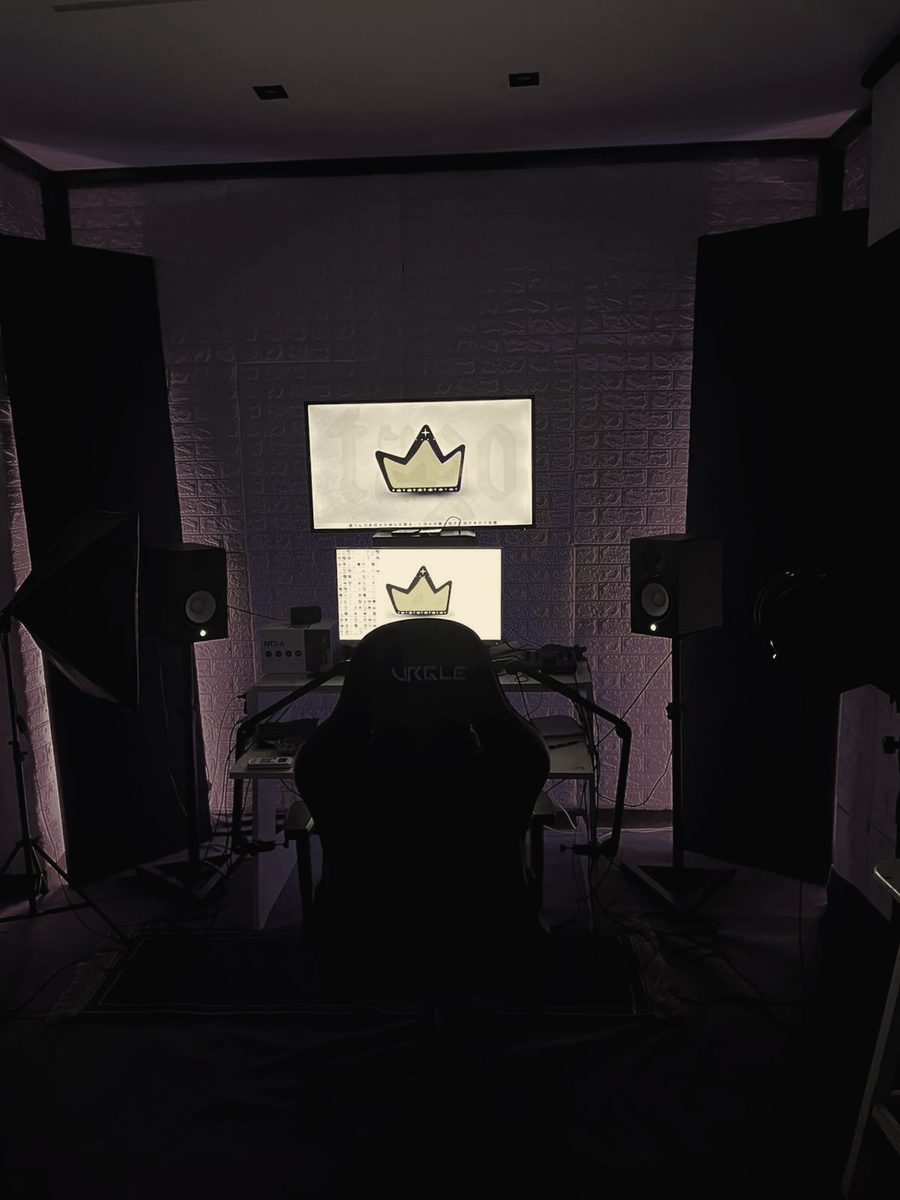
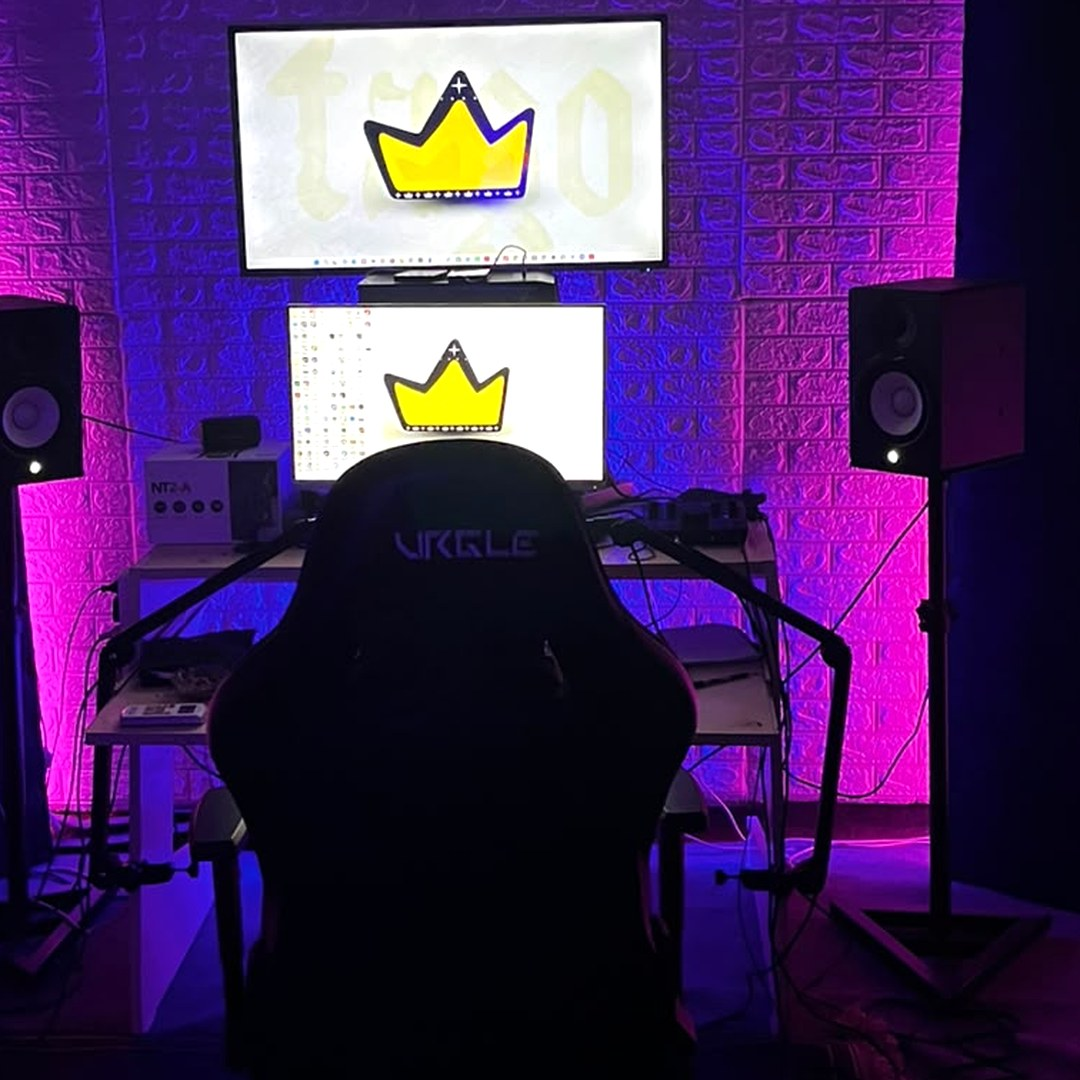
Square crops for About/Studio photos, full-portrait hero bg, Works shows 2 big cards

diff --git a/index.html b/index.html
@@ -24,7 +24,7 @@
 .ts-head nav { display: flex; flex-wrap: wrap; gap: 4px; }
 .ts-head nav button { background: none; border: 0; color: #cfcfcf; font: inherit; padding: 10px; min-height: 44px; cursor: pointer; }
 .ts-head nav button:hover { color: #FED219; }
-.ts-hero { text-align: center; padding: 56px 20px 48px; background: linear-gradient(180deg, rgba(19,19,19,.45) 0%, rgba(19,19,19,.78) 45%, rgba(19,19,19,.95) 100%), url("hero-bg.jpg") 50% 22%/cover no-repeat; border-bottom: 3px solid #FED219; }
+.ts-hero { text-align: center; padding: 56px 20px 48px; background: linear-gradient(180deg, rgba(19,19,19,.45) 0%, rgba(19,19,19,.78) 45%, rgba(19,19,19,.95) 100%), url("hero-bg.jpg?v=2") 50% 22%/cover no-repeat; border-bottom: 3px solid #FED219; }
 .ts-hero-in { max-width: 760px; margin: 0 auto; }
 .ts-avatar { width: 128px; height: 128px; border-radius: 50%; margin: 0 auto 16px; background: #1c1c1c; border: 3px solid #FED219; display: grid; place-items: center; font-size: 56px; font-weight: 800; color: #FED219; }
 .ts-hero h1 { font-size: clamp(48px, 12vw, 96px); margin: 0; line-height: 1.1; }
@@ -97,11 +97,11 @@ a.ts-btn { text-decoration: none; width: max-content; max-width: 100%; text-alig
 @media (max-width:699px){.ts-burger{display:flex}.ts-head{padding:12px 16px}.ts-head nav{display:none;position:absolute;top:100%;left:0;right:0;z-index:20;flex-direction:column;flex-wrap:nowrap;gap:0;background:#1a1a1a;border-bottom:1px solid #2a2a2a;padding:8px 16px}.ts-head.open nav{display:flex}.ts-head nav .ts-navl{padding:14px 8px;border-bottom:1px solid #262626;font-size:17px}.ts-head nav .ts-navl:last-child{border-bottom:0}}.ts-video .ts-credit{padding:0 16px 16px;margin:-8px 0 0;font-size:14px;color:#FED219}.ts-podembed{grid-column:1/-1}.ts-podlabel{margin:0 0 12px;font-size:20px;text-align:center;color:#fff}.ts-frame{aspect-ratio:16/9;border-radius:16px;overflow:hidden;background:#000}.ts-frame iframe{width:100%;height:100%;border:0;display:block}.ts-soon{color:#9a9a9a;margin:0}.ts-latest{max-width:920px}.ts-latest-t{margin:14px 0 0;font-size:20px;text-align:center}.ts-rel{display:flex;flex-direction:column;gap:10px;margin-top:20px}.ts-rel-i{display:flex;align-items:center;gap:12px;background:#1c1c1c;border-radius:12px;padding:8px 12px 8px 8px;text-decoration:none;color:inherit}.ts-rel-i:hover{filter:brightness(1.15)}.ts-rel-i img{width:120px;aspect-ratio:16/9;object-fit:cover;border-radius:8px;flex:none}.ts-rel-t{display:flex;flex-direction:column;gap:2px;min-width:0}.ts-rel-t b{font-size:15px;color:#fff}.ts-rel-t i{font-style:normal;font-size:13px;color:#FED219}.ts-rel-d{font-size:12px;color:#9a9a9a}</style><script src="imgs.js"></script><script src="logo.js"></script><script src="font1.js"></script><script src="font2.js"></script><script>var st=document.createElement("style");st.textContent="@font-face{font-family:\"TsCairo\";src:url(data:font/ttf;base64,"+F1+F2+") format(\"truetype\");font-weight:200 1000}";document.head.appendChild(st);</script></head><body><div id="en"><div class="ts" dir="ltr" lang="en">
 <header class="ts-head"><span class="ts-logo"><img data-d="0" src="data:," alt="Tago crown logo" class="ts-crown"/>TAGO</span><nav><a href="#about" class="ts-navl">About</a><a href="#services" class="ts-navl">Services</a><a href="#latest" class="ts-navl">My Latest Release</a><a href="#podcast" class="ts-navl">Podcast</a><a href="#work" class="ts-navl">Work</a><a href="#contact" class="ts-navl">Contact</a></nav><div class="ts-hr"><button type="button" class="ts-lang" onclick="setLang('ar')">العربية</button><button type="button" class="ts-burger" aria-label="Menu" aria-expanded="false"><span></span><span></span><span></span></button></div></header>
 <section class="ts-hero"><div class="ts-hero-in"><div class="ts-avatar"><img data-d="0" src="data:," alt="Tago crown logo"/></div><h1>TAGO</h1><p class="ts-tag">Music Producer · Sound Engineer · Content Creator</p><div class="ts-social"><a href="https://www.instagram.com/lordtago" target="_blank" rel="noopener noreferrer">Instagram</a><a href="https://youtube.com/@lordtago" target="_blank" rel="noopener noreferrer">YouTube</a><a href="https://www.tiktok.com/@lordtago" target="_blank" rel="noopener noreferrer">TikTok</a><a href="https://www.facebook.com/share/1EE7hcCsJZ/?mibextid=wwXIfr" target="_blank" rel="noopener noreferrer">Facebook</a><a href="mailto:lordtagoo@gmail.com">Email</a></div><div class="ts-bubble">Got an idea? Let's turn it into a record at the studio.</div><a href="https://wa.me/201001452808" target="_blank" rel="noopener noreferrer" class="ts-btn">Message me on WhatsApp</a></div></section>
-<section id="about" class="ts-sec"><h2>About me and the studio</h2><div class="ts-about"><img class="ts-portrait" src="studio.jpg?v=2" alt="Tago at the desk in Toufan Studio" loading="lazy" width="1200" height="696"/><p>I am Tago from Ismailia, Egypt. Music producer, arranger, sound engineer and songwriter, and the owner of Toufan Studio. My rap and mahraganat work has reached millions of views.</p></div><div class="ts-stats"><div><b dir="ltr">345K+</b><span>followers combined</span></div><div><b dir="ltr" class="ts-ytviews">5.3M+</b><span>YouTube views</span></div><div><b dir="ltr">46.3K</b><span>YouTube subscribers</span></div><div><b dir="ltr">174.6K</b><span>TikTok followers</span></div><div><b dir="ltr">108K</b><span>Facebook followers</span></div><div><b dir="ltr">16.8K</b><span>Instagram followers</span></div><div><b dir="ltr">12+</b><span>years</span></div></div></section><section id="services" class="ts-sec"><h2>Services</h2><div class="ts-grid" id="tsSvcEn"></div><p class="ts-svcnote">Delivery in 1 to 3 days</p></section><section id="latest" class="ts-sec"><h2>Latest Releases</h2><div class="ts-latest" id="tsLatestEn"><div class="ts-frame"><iframe src="https://www.youtube.com/embed/CoeoFm5acP8" title="TAGO X SCOR - Mate3mlsh Enk 7abiby | تاجو وسكور - متعملش انك حبيبي" loading="lazy" allow="accelerometer; encrypted-media; picture-in-picture; web-share" allowfullscreen referrerpolicy="strict-origin-when-cross-origin"></iframe></div><h3 class="ts-latest-t" dir="auto">TAGO X SCOR - Mate3mlsh Enk 7abiby | تاجو وسكور - متعملش انك حبيبي</h3><a class="ts-btn" style="margin:12px auto 0" href="https://youtu.be/CoeoFm5acP8" target="_blank" rel="noopener noreferrer">Watch on YouTube</a></div><div class="ts-rel" id="tsRelEn"></div></section><section id="podcast" class="ts-sec ts-pod"><div class="ts-podlogo"><img data-pl="1" src="data:," alt="FLSTUDIO with Tago podcast logo" loading="lazy"/></div><div><h2>FLSTUDIO with Tago</h2><p>A podcast hosting mahraganat and shaabi stars: a real conversation, reactions to their videos, a live singing segment, and a challenge we make them try.</p><a class="ts-btn" style="margin:14px 0 0" href="https://www.youtube.com/playlist?list=PLAxLyk6ogs0xgaepPgfRe_CwHPWfxUmDX" target="_blank" rel="noopener noreferrer">Watch Season 1 on YouTube</a></div><div class="ts-podembed"><h3 class="ts-podlabel" dir="rtl" lang="ar">بودكاست فالاستوديو مع تاجو الموسم الاول</h3><div class="ts-frame"><iframe src="https://www.youtube.com/embed/videoseries?list=PLAxLyk6ogs0xgaepPgfRe_CwHPWfxUmDX" title="FLSTUDIO with Tago, Season 1" loading="lazy" allow="accelerometer; encrypted-media; picture-in-picture; web-share" allowfullscreen referrerpolicy="strict-origin-when-cross-origin"></iframe></div></div></section><section id="work" class="ts-sec"><h2>My work</h2><div class="ts-grid" id="tsGridEn"></div><div class="ts-rel" id="tsWorkRelEn"></div></section><section id="studio" class="ts-sec"><h2>The Studio</h2><img class="ts-studioimg" src="studio-1.jpg" alt="Toufan Studio control room with the Tago crown on the screens" loading="lazy" width="900" height="1200"/></section><section id="artists" class="ts-sec"><h2>Artists</h2><div id="tsArtistsEn"></div></section><section id="store" class="ts-sec" style="display:none"><h2>Store</h2><div class="ts-grid"><div class="ts-card"><div class="ts-cover"></div><h3>FL Studio mixing template</h3><p class="ts-price">Price soon</p><button type="button" class="ts-btn ts-ghost" disabled>Coming soon</button></div><div class="ts-card"><div class="ts-cover"></div><h3>Sound presets</h3><p class="ts-price">Price soon</p><button type="button" class="ts-btn ts-ghost" disabled>Coming soon</button></div><div class="ts-card"><div class="ts-cover"></div><h3>Mastering guide</h3><p class="ts-price">Price soon</p><button type="button" class="ts-btn ts-ghost" disabled>Coming soon</button></div></div><p class="ts-note">Placeholder products and prices. Online payment is not connected yet.</p></section><section id="contact" class="ts-sec ts-contact"><h2>Get in touch</h2><p>Have a song, an idea or a podcast? Talk to me.</p><a href="https://wa.me/201001452808" target="_blank" rel="noopener noreferrer" class="ts-btn">Chat on WhatsApp</a> <a href="mailto:lordtagoo@gmail.com" class="ts-btn" style="align-self:center;margin:12px auto 0">Email me</a><p class="ts-note">Ismailia, Egypt</p></section>
+<section id="about" class="ts-sec"><h2>About me and the studio</h2><div class="ts-about"><img class="ts-portrait" src="studio.jpg?v=3" alt="Tago at the desk in Toufan Studio" loading="lazy" width="1000" height="1000"/><p>I am Tago from Ismailia, Egypt. Music producer, arranger, sound engineer and songwriter, and the owner of Toufan Studio. My rap and mahraganat work has reached millions of views.</p></div><div class="ts-stats"><div><b dir="ltr">345K+</b><span>followers combined</span></div><div><b dir="ltr" class="ts-ytviews">5.3M+</b><span>YouTube views</span></div><div><b dir="ltr">46.3K</b><span>YouTube subscribers</span></div><div><b dir="ltr">174.6K</b><span>TikTok followers</span></div><div><b dir="ltr">108K</b><span>Facebook followers</span></div><div><b dir="ltr">16.8K</b><span>Instagram followers</span></div><div><b dir="ltr">12+</b><span>years</span></div></div></section><section id="services" class="ts-sec"><h2>Services</h2><div class="ts-grid" id="tsSvcEn"></div><p class="ts-svcnote">Delivery in 1 to 3 days</p></section><section id="latest" class="ts-sec"><h2>Latest Releases</h2><div class="ts-latest" id="tsLatestEn"><div class="ts-frame"><iframe src="https://www.youtube.com/embed/CoeoFm5acP8" title="TAGO X SCOR - Mate3mlsh Enk 7abiby | تاجو وسكور - متعملش انك حبيبي" loading="lazy" allow="accelerometer; encrypted-media; picture-in-picture; web-share" allowfullscreen referrerpolicy="strict-origin-when-cross-origin"></iframe></div><h3 class="ts-latest-t" dir="auto">TAGO X SCOR - Mate3mlsh Enk 7abiby | تاجو وسكور - متعملش انك حبيبي</h3><a class="ts-btn" style="margin:12px auto 0" href="https://youtu.be/CoeoFm5acP8" target="_blank" rel="noopener noreferrer">Watch on YouTube</a></div><div class="ts-rel" id="tsRelEn"></div></section><section id="podcast" class="ts-sec ts-pod"><div class="ts-podlogo"><img data-pl="1" src="data:," alt="FLSTUDIO with Tago podcast logo" loading="lazy"/></div><div><h2>FLSTUDIO with Tago</h2><p>A podcast hosting mahraganat and shaabi stars: a real conversation, reactions to their videos, a live singing segment, and a challenge we make them try.</p><a class="ts-btn" style="margin:14px 0 0" href="https://www.youtube.com/playlist?list=PLAxLyk6ogs0xgaepPgfRe_CwHPWfxUmDX" target="_blank" rel="noopener noreferrer">Watch Season 1 on YouTube</a></div><div class="ts-podembed"><h3 class="ts-podlabel" dir="rtl" lang="ar">بودكاست فالاستوديو مع تاجو الموسم الاول</h3><div class="ts-frame"><iframe src="https://www.youtube.com/embed/videoseries?list=PLAxLyk6ogs0xgaepPgfRe_CwHPWfxUmDX" title="FLSTUDIO with Tago, Season 1" loading="lazy" allow="accelerometer; encrypted-media; picture-in-picture; web-share" allowfullscreen referrerpolicy="strict-origin-when-cross-origin"></iframe></div></div></section><section id="work" class="ts-sec"><h2>My work</h2><div class="ts-grid" id="tsGridEn"></div><div class="ts-rel" id="tsWorkRelEn"></div></section><section id="studio" class="ts-sec"><h2>The Studio</h2><img class="ts-studioimg" src="studio-1.jpg?v=2" alt="Toufan Studio control room with the Tago crown on the screens" loading="lazy" width="1080" height="1080"/></section><section id="artists" class="ts-sec"><h2>Artists</h2><div id="tsArtistsEn"></div></section><section id="store" class="ts-sec" style="display:none"><h2>Store</h2><div class="ts-grid"><div class="ts-card"><div class="ts-cover"></div><h3>FL Studio mixing template</h3><p class="ts-price">Price soon</p><button type="button" class="ts-btn ts-ghost" disabled>Coming soon</button></div><div class="ts-card"><div class="ts-cover"></div><h3>Sound presets</h3><p class="ts-price">Price soon</p><button type="button" class="ts-btn ts-ghost" disabled>Coming soon</button></div><div class="ts-card"><div class="ts-cover"></div><h3>Mastering guide</h3><p class="ts-price">Price soon</p><button type="button" class="ts-btn ts-ghost" disabled>Coming soon</button></div></div><p class="ts-note">Placeholder products and prices. Online payment is not connected yet.</p></section><section id="contact" class="ts-sec ts-contact"><h2>Get in touch</h2><p>Have a song, an idea or a podcast? Talk to me.</p><a href="https://wa.me/201001452808" target="_blank" rel="noopener noreferrer" class="ts-btn">Chat on WhatsApp</a> <a href="mailto:lordtagoo@gmail.com" class="ts-btn" style="align-self:center;margin:12px auto 0">Email me</a><p class="ts-note">Ismailia, Egypt</p></section>
 <footer class="ts-foot">© Tago · Toufan Studio</footer></div></div><div id="ar" style="display:none"><div class="ts" dir="rtl" lang="ar">
 <header class="ts-head"><span class="ts-logo"><img data-d="0" src="data:," alt="شعار تاجو" class="ts-crown"/>تاجو</span><nav><a href="#about" class="ts-navl">عني</a><a href="#services" class="ts-navl">الخدمات</a><a href="#latest" class="ts-navl">آخر إصداراتي</a><a href="#podcast" class="ts-navl">فالاستوديو</a><a href="#work" class="ts-navl">شغلي</a><a href="#contact" class="ts-navl">تواصل</a></nav><div class="ts-hr"><button type="button" class="ts-lang" onclick="setLang('en')">English</button><button type="button" class="ts-burger" aria-label="Menu" aria-expanded="false"><span></span><span></span><span></span></button></div></header>
 <section class="ts-hero"><div class="ts-hero-in"><div class="ts-avatar"><img data-d="0" src="data:," alt="شعار تاجو"/></div><div class="ts-h1ar">تاجو</div><p class="ts-tag">منتج موسيقي · مهندس صوت · صانع محتوى</p><div class="ts-social"><a href="https://www.instagram.com/lordtago" target="_blank" rel="noopener noreferrer">Instagram</a><a href="https://youtube.com/@lordtago" target="_blank" rel="noopener noreferrer">YouTube</a><a href="https://www.tiktok.com/@lordtago" target="_blank" rel="noopener noreferrer">TikTok</a><a href="https://www.facebook.com/share/1EE7hcCsJZ/?mibextid=wwXIfr" target="_blank" rel="noopener noreferrer">Facebook</a><a href="mailto:lordtagoo@gmail.com">البريد</a></div><div class="ts-bubble">أي فكرة في دماغك، نحولها لشغل يتسمع في الاستوديو.</div><a href="https://wa.me/201001452808" target="_blank" rel="noopener noreferrer" class="ts-btn">كلمني على واتساب</a> <a href="mailto:lordtagoo@gmail.com" class="ts-btn" style="align-self:center;margin:12px auto 0">ابعتلي إيميل</a></div></section>
-<section id="about" class="ts-sec"><h2>عني وعن الاستوديو</h2><div class="ts-about"><img class="ts-portrait" src="studio.jpg?v=2" alt="تاجو على المكتب في استوديو طوفان" loading="lazy" width="1200" height="696"/><p>أنا تاجو من الإسماعيلية. موزع موسيقي ومهندس صوت وكاتب أغاني، وصاحب استوديو طوفان. اشتغلت في الراب والمهرجانات وشغلي وصل لملايين المشاهدات.</p></div><div class="ts-stats"><div><b dir="ltr">345K+</b><span>متابع على كل المنصات</span></div><div><b dir="ltr" class="ts-ytviews">5.3M+</b><span>مشاهدة على يوتيوب</span></div><div><b dir="ltr">46.3K</b><span>مشترك على يوتيوب</span></div><div><b dir="ltr">174.6K</b><span>متابع على تيك توك</span></div><div><b dir="ltr">108K</b><span>متابع على فيسبوك</span></div><div><b dir="ltr">16.8K</b><span>متابع على انستجرام</span></div><div><b dir="ltr">12+</b><span>سنة خبرة</span></div></div></section><section id="services" class="ts-sec"><h2>الخدمات</h2><div class="ts-grid" id="tsSvcAr"></div><p class="ts-svcnote">التسليم من يوم لـ٣ أيام</p></section><section id="latest" class="ts-sec"><h2>آخر إصداراتي</h2><div class="ts-latest" id="tsLatestAr"><div class="ts-frame"><iframe src="https://www.youtube.com/embed/CoeoFm5acP8" title="TAGO X SCOR - Mate3mlsh Enk 7abiby | تاجو وسكور - متعملش انك حبيبي" loading="lazy" allow="accelerometer; encrypted-media; picture-in-picture; web-share" allowfullscreen referrerpolicy="strict-origin-when-cross-origin"></iframe></div><h3 class="ts-latest-t" dir="auto">TAGO X SCOR - Mate3mlsh Enk 7abiby | تاجو وسكور - متعملش انك حبيبي</h3><a class="ts-btn" style="margin:12px auto 0" href="https://youtu.be/CoeoFm5acP8" target="_blank" rel="noopener noreferrer">شاهد على يوتيوب</a></div><div class="ts-rel" id="tsRelAr"></div></section><section id="podcast" class="ts-sec ts-pod"><div class="ts-podlogo"><img data-pl="1" src="data:," alt="FLSTUDIO with Tago podcast logo" loading="lazy"/></div><div><h2>فالاستوديو مع تاجو</h2><p>بودكاست بنستضيف فيه نجوم المهرجانات والشعبي: حوار، ريأكشن على فيديوهاتهم، فقرة غناء لايف، وتحدي بنخليهم يجربوه.</p><a class="ts-btn" style="margin:14px 0 0" href="https://www.youtube.com/playlist?list=PLAxLyk6ogs0xgaepPgfRe_CwHPWfxUmDX" target="_blank" rel="noopener noreferrer">شاهد الموسم الأول على يوتيوب</a></div><div class="ts-podembed"><h3 class="ts-podlabel" dir="rtl" lang="ar">بودكاست فالاستوديو مع تاجو الموسم الاول</h3><div class="ts-frame"><iframe src="https://www.youtube.com/embed/videoseries?list=PLAxLyk6ogs0xgaepPgfRe_CwHPWfxUmDX" title="فالاستوديو مع تاجو، الموسم الأول" loading="lazy" allow="accelerometer; encrypted-media; picture-in-picture; web-share" allowfullscreen referrerpolicy="strict-origin-when-cross-origin"></iframe></div></div></section><section id="work" class="ts-sec"><h2>شغلي</h2><div class="ts-grid" id="tsGridAr"></div><div class="ts-rel" id="tsWorkRelAr"></div></section><section id="studio" class="ts-sec"><h2>الاستوديو</h2><img class="ts-studioimg" src="studio-1.jpg" alt="غرفة التحكم في استوديو طوفان وشعار تاجو على الشاشات" loading="lazy" width="900" height="1200"/></section><section id="artists" class="ts-sec"><h2>الفنانين</h2><div id="tsArtistsAr"></div></section><section id="store" class="ts-sec" style="display:none"><h2>المتجر</h2><div class="ts-grid"><div class="ts-card"><div class="ts-cover"></div><h3>قالب ميكس FL Studio</h3><p class="ts-price">السعر قريباً</p><button type="button" class="ts-btn ts-ghost" disabled>قريباً</button></div><div class="ts-card"><div class="ts-cover"></div><h3>بريسيتات صوت</h3><p class="ts-price">السعر قريباً</p><button type="button" class="ts-btn ts-ghost" disabled>قريباً</button></div><div class="ts-card"><div class="ts-cover"></div><h3>دليل الماستر</h3><p class="ts-price">السعر قريباً</p><button type="button" class="ts-btn ts-ghost" disabled>قريباً</button></div></div><p class="ts-note">المنتجات والأسعار مكان مؤقت. الدفع الأونلاين لسه مش متوصل.</p></section><section id="contact" class="ts-sec ts-contact"><h2>تواصل معايا</h2><p>عندك أغنية أو فكرة أو بودكاست؟ كلمني.</p><a href="https://wa.me/201001452808" target="_blank" rel="noopener noreferrer" class="ts-btn">كلمني على واتساب</a><p class="ts-note">الإسماعيلية، مصر</p></section>
+<section id="about" class="ts-sec"><h2>عني وعن الاستوديو</h2><div class="ts-about"><img class="ts-portrait" src="studio.jpg?v=3" alt="تاجو على المكتب في استوديو طوفان" loading="lazy" width="1000" height="1000"/><p>أنا تاجو من الإسماعيلية. موزع موسيقي ومهندس صوت وكاتب أغاني، وصاحب استوديو طوفان. اشتغلت في الراب والمهرجانات وشغلي وصل لملايين المشاهدات.</p></div><div class="ts-stats"><div><b dir="ltr">345K+</b><span>متابع على كل المنصات</span></div><div><b dir="ltr" class="ts-ytviews">5.3M+</b><span>مشاهدة على يوتيوب</span></div><div><b dir="ltr">46.3K</b><span>مشترك على يوتيوب</span></div><div><b dir="ltr">174.6K</b><span>متابع على تيك توك</span></div><div><b dir="ltr">108K</b><span>متابع على فيسبوك</span></div><div><b dir="ltr">16.8K</b><span>متابع على انستجرام</span></div><div><b dir="ltr">12+</b><span>سنة خبرة</span></div></div></section><section id="services" class="ts-sec"><h2>الخدمات</h2><div class="ts-grid" id="tsSvcAr"></div><p class="ts-svcnote">التسليم من يوم لـ٣ أيام</p></section><section id="latest" class="ts-sec"><h2>آخر إصداراتي</h2><div class="ts-latest" id="tsLatestAr"><div class="ts-frame"><iframe src="https://www.youtube.com/embed/CoeoFm5acP8" title="TAGO X SCOR - Mate3mlsh Enk 7abiby | تاجو وسكور - متعملش انك حبيبي" loading="lazy" allow="accelerometer; encrypted-media; picture-in-picture; web-share" allowfullscreen referrerpolicy="strict-origin-when-cross-origin"></iframe></div><h3 class="ts-latest-t" dir="auto">TAGO X SCOR - Mate3mlsh Enk 7abiby | تاجو وسكور - متعملش انك حبيبي</h3><a class="ts-btn" style="margin:12px auto 0" href="https://youtu.be/CoeoFm5acP8" target="_blank" rel="noopener noreferrer">شاهد على يوتيوب</a></div><div class="ts-rel" id="tsRelAr"></div></section><section id="podcast" class="ts-sec ts-pod"><div class="ts-podlogo"><img data-pl="1" src="data:," alt="FLSTUDIO with Tago podcast logo" loading="lazy"/></div><div><h2>فالاستوديو مع تاجو</h2><p>بودكاست بنستضيف فيه نجوم المهرجانات والشعبي: حوار، ريأكشن على فيديوهاتهم، فقرة غناء لايف، وتحدي بنخليهم يجربوه.</p><a class="ts-btn" style="margin:14px 0 0" href="https://www.youtube.com/playlist?list=PLAxLyk6ogs0xgaepPgfRe_CwHPWfxUmDX" target="_blank" rel="noopener noreferrer">شاهد الموسم الأول على يوتيوب</a></div><div class="ts-podembed"><h3 class="ts-podlabel" dir="rtl" lang="ar">بودكاست فالاستوديو مع تاجو الموسم الاول</h3><div class="ts-frame"><iframe src="https://www.youtube.com/embed/videoseries?list=PLAxLyk6ogs0xgaepPgfRe_CwHPWfxUmDX" title="فالاستوديو مع تاجو، الموسم الأول" loading="lazy" allow="accelerometer; encrypted-media; picture-in-picture; web-share" allowfullscreen referrerpolicy="strict-origin-when-cross-origin"></iframe></div></div></section><section id="work" class="ts-sec"><h2>شغلي</h2><div class="ts-grid" id="tsGridAr"></div><div class="ts-rel" id="tsWorkRelAr"></div></section><section id="studio" class="ts-sec"><h2>الاستوديو</h2><img class="ts-studioimg" src="studio-1.jpg?v=2" alt="غرفة التحكم في استوديو طوفان وشعار تاجو على الشاشات" loading="lazy" width="1080" height="1080"/></section><section id="artists" class="ts-sec"><h2>الفنانين</h2><div id="tsArtistsAr"></div></section><section id="store" class="ts-sec" style="display:none"><h2>المتجر</h2><div class="ts-grid"><div class="ts-card"><div class="ts-cover"></div><h3>قالب ميكس FL Studio</h3><p class="ts-price">السعر قريباً</p><button type="button" class="ts-btn ts-ghost" disabled>قريباً</button></div><div class="ts-card"><div class="ts-cover"></div><h3>بريسيتات صوت</h3><p class="ts-price">السعر قريباً</p><button type="button" class="ts-btn ts-ghost" disabled>قريباً</button></div><div class="ts-card"><div class="ts-cover"></div><h3>دليل الماستر</h3><p class="ts-price">السعر قريباً</p><button type="button" class="ts-btn ts-ghost" disabled>قريباً</button></div></div><p class="ts-note">المنتجات والأسعار مكان مؤقت. الدفع الأونلاين لسه مش متوصل.</p></section><section id="contact" class="ts-sec ts-contact"><h2>تواصل معايا</h2><p>عندك أغنية أو فكرة أو بودكاست؟ كلمني.</p><a href="https://wa.me/201001452808" target="_blank" rel="noopener noreferrer" class="ts-btn">كلمني على واتساب</a><p class="ts-note">الإسماعيلية، مصر</p></section>
 <footer class="ts-foot">© تاجو · استوديو طوفان</footer></div></div>
 <script>window.SERVICES=[
 {te:"Studio Time",ta:"ساعة تسجيل",de:"Recording only. Book the booth by the hour.",da:"تسجيل فقط. احجز البوث بالساعة.",p:"$20",pe:"/hour",pa:"/ساعة"},
@@ -170,7 +170,7 @@ document.querySelectorAll(".ts-ytviews").forEach(function(b){b.textContent=f});
 }).catch(function(){});
 var wsorted=WORKS.slice().sort(function(a,b){var pa=a.pf||99,pb=b.pf||99;if(pa!==pb)return pa-pb;var ta=a.tl||0,tb=b.tl||0;if((ta>0)!==(tb>0))return ta>0?1:-1;if(ta!==tb)return ta-tb;var ma=a.m?1:0,mb=b.m?1:0;if(ma!==mb)return mb-ma;var fa=a.mf?1:0,fb=b.mf?1:0;if(fa!==fb)return fa-fb;return a.d<b.d?1:-1});
 var WCFG={en:{G:"tsGridEn",R:"tsWorkRelEn",c:"ce"},ar:{G:"tsGridAr",R:"tsWorkRelAr",c:"ca"}};
-window.renderWorks=function(l){var cfg=WCFG[l];if(!cfg)return;var g=document.getElementById(cfg.G),w=document.getElementById(cfg.R);if(!g||!w||g.dataset.done)return;var gh="",lh="";wsorted.forEach(function(r,i){var cr=r[cfg.c]||null;if(i<5)gh+=cardHTML(r,r.t,cr);else lh+=rowHTML(r,r.t,cr)});g.innerHTML=gh;w.innerHTML=lh;PIN.forEach(function(r){w.insertAdjacentHTML("beforeend",rowHTML(r,r.t,null))});g.dataset.done="1"}
+window.renderWorks=function(l){var cfg=WCFG[l];if(!cfg)return;var g=document.getElementById(cfg.G),w=document.getElementById(cfg.R);if(!g||!w||g.dataset.done)return;var gh="",lh="";wsorted.forEach(function(r,i){var cr=r[cfg.c]||null;if(i<2)gh+=cardHTML(r,r.t,cr);else lh+=rowHTML(r,r.t,cr)});g.innerHTML=gh;w.innerHTML=lh;PIN.forEach(function(r){w.insertAdjacentHTML("beforeend",rowHTML(r,r.t,null))});g.dataset.done="1"}
 var PIN=[{id:"sdjWUxFvA-Y",t:"مجرودة خاينين مع محمد البصيلي",d:""}];
 renderWorks("en");
 })();
